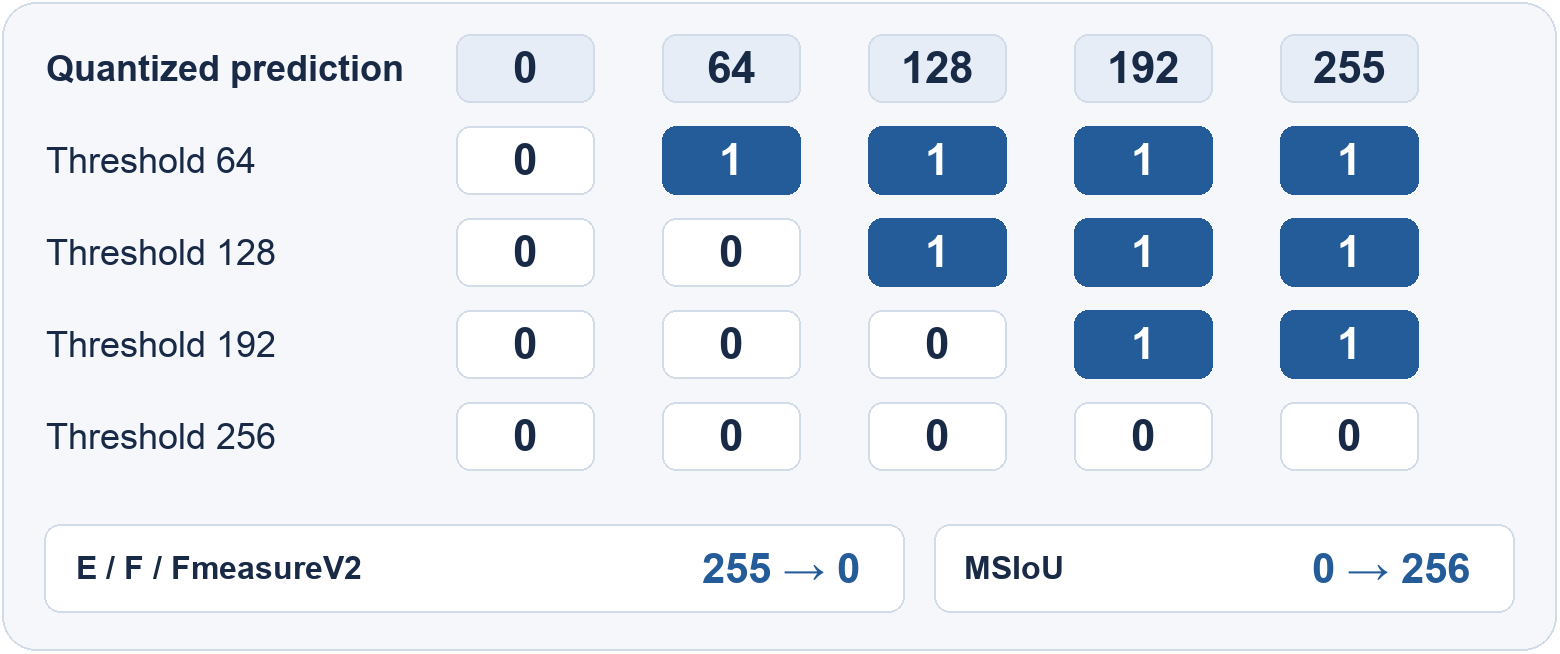
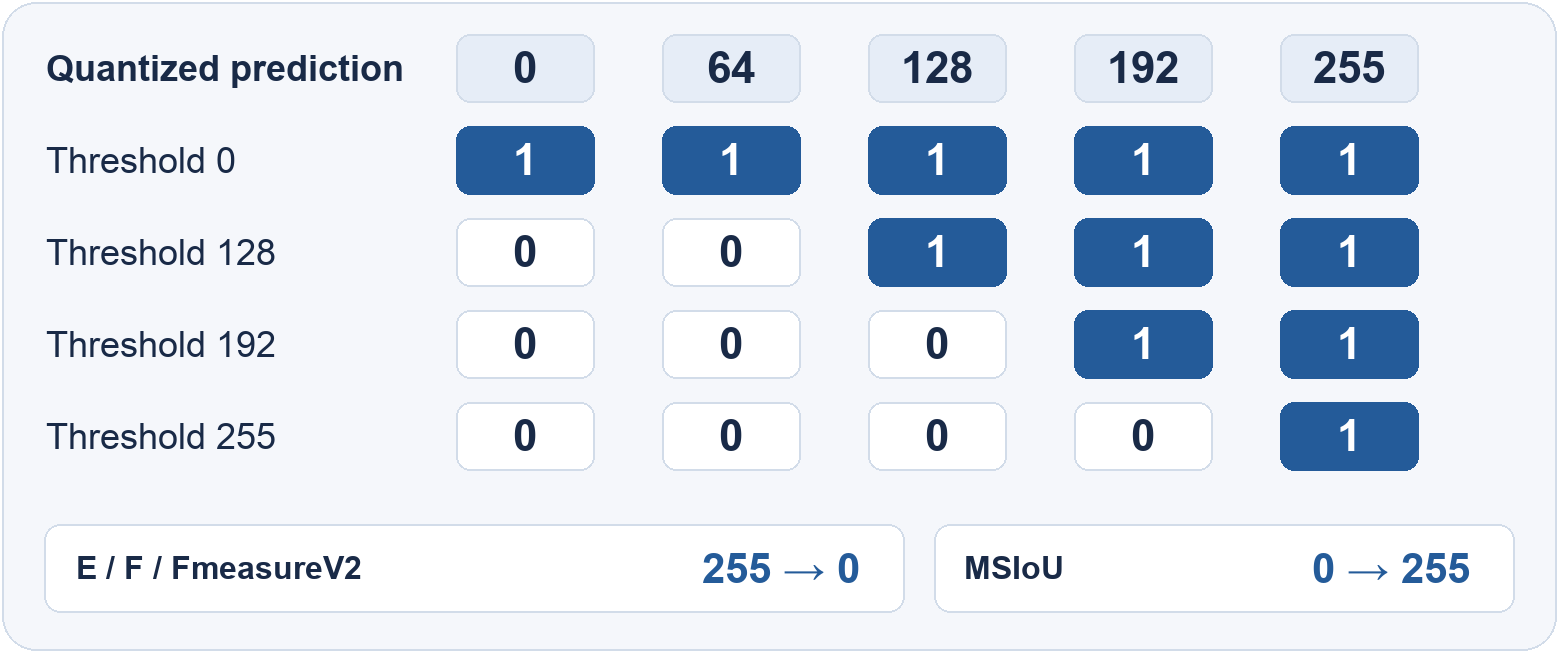
Prepare v1.7.1 with SI and MSIoU fixes

diff --git a/py_sod_metrics/size_invariance.py b/py_sod_metrics/size_invariance.py
@@ -1,9 +1,28 @@
 import numpy as np
+from scipy import ndimage
 from skimage import measure
 
 from .fmeasurev2 import FmeasureV2
 from .sod_metrics import MAE
 from .utils import TYPE, validate_and_normalize_input
+
+
+def _label_targets(mask: np.ndarray, area_threshold: float = 50) -> tuple:
+    labeled_tgts = measure.label(mask, connectivity=1, background=0, return_num=False)
+    areas = np.bincount(labeled_tgts.ravel())[1:]  # 0 is background
+    target_labels = np.flatnonzero(areas >= area_threshold)
+    if target_labels.size == 0 and areas.size > 0:
+        # Keep all targets tied for the largest area.
+        target_labels = np.flatnonzero(areas == areas.max())
+    return labeled_tgts, target_labels + 1
+
+
+def _get_target_boxes(mask: np.ndarray) -> list:
+    labeled_tgts, target_labels = _label_targets(mask)
+    if target_labels.size == 0:
+        return []
+    boxes = ndimage.find_objects(labeled_tgts)
+    return [boxes[label - 1] for label in target_labels]
 
 
 def parse_connected_components(mask: np.ndarray, area_threshold: float = 50) -> tuple:
@@ -19,33 +38,10 @@ def parse_connected_components(mask: np.ndarray, area_threshold: float = 50) -> 
     Returns:
         tuple: max_valid_tgt_idx, valid_labeled_mask
     """
-    labeled_tgts = measure.label(mask, connectivity=1, background=0, return_num=False)
-    tgt_props = measure.regionprops(labeled_tgts)
-
-    # find the valid targets based on the target size
-    tgts_with_max_size = []
-    max_valid_tgt_idx = 0  # 0 is background
-    valid_labeled_mask = np.zeros_like(mask, dtype=int)
-    for tgt_prop in tgt_props:
-        if not tgts_with_max_size or tgts_with_max_size[0].area == tgt_prop.area:
-            # if no targets or area matches, append the current target
-            tgts_with_max_size.append(tgt_prop)
-        elif tgts_with_max_size[0].area < tgt_prop.area:
-            # if current target has larger area, replace the list
-            tgts_with_max_size = [tgt_prop]
-
-        if tgt_prop.area >= area_threshold:  # valid indices start from 1
-            max_valid_tgt_idx += 1
-            valid_labeled_mask[labeled_tgts == tgt_prop.label] = max_valid_tgt_idx
-
-    if max_valid_tgt_idx == 0:  # no targets with area >= area_threshold
-        # here is different from the original implementation (https://github.com/Ferry-Li/SI_Metric/blob/6b87f78512f7c9c2600e2c2f563cc3763581e24f/generate_weight.py#L43-L52)
-        # the original implementation directly uses the first target in tgt_props and assigns the value 1 to the target's pixels
-        # while this implementation assigns a unique index to each target in tgts_with_max_size (targets with the same and largest area)
-        for tgt_prop in tgts_with_max_size:
-            max_valid_tgt_idx += 1
-            valid_labeled_mask[labeled_tgts == tgt_prop.label] = max_valid_tgt_idx
-    return max_valid_tgt_idx, valid_labeled_mask
+    labeled_tgts, target_labels = _label_targets(mask, area_threshold)
+    label_map = np.zeros(labeled_tgts.max(initial=0) + 1, dtype=int)
+    label_map[target_labels] = np.arange(1, target_labels.size + 1)
+    return target_labels.size, label_map[labeled_tgts]
 
 
 def get_bboxwise_tgt_masks(max_valid_tgt_idx: int, valid_labeled_mask: np.ndarray) -> list:
@@ -144,15 +140,17 @@ class SizeInvarianceFmeasureV2(FmeasureV2):
 
         pred, gt = validate_and_normalize_input(pred, gt, normalize=normalize)
 
-        max_valid_tgt_idx, valid_labeled_mask = parse_connected_components(mask=gt)
+        target_boxes = _get_target_boxes(gt)
 
-        if max_valid_tgt_idx == 0:  # no target or no background
-            self._update_metrics(pred=pred, gt=gt)
+        if target_boxes:
+            for target_box in target_boxes:
+                target_pred = np.zeros_like(pred, order="C")
+                target_gt = np.zeros_like(gt, order="C")
+                target_pred[target_box] = pred[target_box]
+                target_gt[target_box] = gt[target_box]
+                self._update_metrics(pred=target_pred, gt=target_gt)
         else:
-            for tgt_mask in get_bboxwise_tgt_masks(max_valid_tgt_idx, valid_labeled_mask):
-                _pred = pred * tgt_mask
-                _gt = gt & tgt_mask
-                self._update_metrics(pred=_pred, gt=_gt)
+            self._update_metrics(pred=pred, gt=gt)
 
         # average over all targets in each sample
         for handler_name, handler in self._metric_handlers.items():
@@ -220,33 +218,37 @@ class SizeInvarianceMAE(MAE):
             normalize (bool, optional): Whether to normalize the input data. Defaults to True.
         """
         pred, gt = validate_and_normalize_input(pred, gt, normalize=normalize)
-        max_valid_tgt_idx, valid_labeled_mask = parse_connected_components(mask=gt)
+        target_boxes = _get_target_boxes(gt)
 
-        if max_valid_tgt_idx == 0:  # no targets or no background
+        if not target_boxes:
             mae = np.abs(pred - gt).mean()
-        else:  # there are multiple targets
-            tgt_masks = get_bboxwise_tgt_masks(max_valid_tgt_idx, valid_labeled_mask)
-
-            # background component
-            bg_mask = ~np.logical_or.reduce(tgt_masks)  # outside all target bboxes
+        else:
+            bg_mask = np.ones(gt.shape, dtype=bool)
+            for target_box in target_boxes:
+                bg_mask[target_box] = False
             bg_area = np.count_nonzero(bg_mask)
-            if bg_area == 0:  # the target bboxes cover the whole image, so the background term vanishes
-                factor = 1 / max_valid_tgt_idx
-                mae = 0
-            else:
-                _pred = pred * bg_mask
-                _gt = gt & bg_mask
+
+            # Sum zero-padded errors in image order to preserve floating-point results.
+            errors = np.zeros_like(pred, order="C")
+            mae = 0
+            if bg_area:
                 bg_fg_area_ratio = bg_area / (gt.size - bg_area)
-                factor = 1 / (max_valid_tgt_idx + bg_fg_area_ratio)
-                mae = bg_fg_area_ratio * np.abs(_pred - _gt).sum() / bg_area * factor
+                factor = 1 / (len(target_boxes) + bg_fg_area_ratio)
+                np.subtract(pred, gt, out=errors, where=bg_mask)
+                np.abs(errors, out=errors)
+                mae = bg_fg_area_ratio * errors.sum() / bg_area * factor
+                errors.fill(0)
+            else:
+                factor = 1 / len(target_boxes)
 
-            # foreground components
-            for tgt_mask in tgt_masks:
-                tgt_area = np.count_nonzero(tgt_mask)
-
-                _pred = pred * tgt_mask
-                _gt = gt & tgt_mask
-                mae += np.abs(_pred - _gt).sum() / tgt_area * factor
+            # Match the scalar promotion of count_nonzero without allocating a target mask.
+            area_type = type(bg_area)
+            for target_box in target_boxes:
+                target_errors = errors[target_box]
+                np.subtract(pred[target_box], gt[target_box], out=target_errors)
+                np.abs(target_errors, out=target_errors)
+                mae += errors.sum() / area_type(target_errors.size) * factor
+                target_errors.fill(0)
         self.maes.append(mae)
 
     def get_results(self) -> dict:

diff --git a/examples/test_metrics.py b/examples/test_metrics.py
@@ -289,6 +289,7 @@ class CheckMetricTestCase(unittest.TestCase):
         # Fix versions: results of existing metrics that were changed by a bug fix, overriding the old values.
         for fix_version in [
             "v1_7_0",  # MSIoU: exact edge pixel counting (float16 -> float64), consistent across platforms
+            "v1_7_1",  # MSIoU: average over thresholds 0 through 255
         ]:
             if not all([k in cls.default_results for k in default_results[fix_version].keys()]):
                 raise ValueError(f"A fix version ({fix_version}) should only override existing keys.")
@@ -308,12 +309,32 @@ class CheckMetricTestCase(unittest.TestCase):
 
         self.assertEqual(self.curr_results["si_mae"], self.default_results["si_mae"])
 
+    def test_si_mae_float32(self):
+        pred = np.full((2, 3), 0.1, dtype=np.float32)
+        gt = np.ones(pred.shape, dtype=bool)
+        expected = np.abs(pred - gt).sum() / np.count_nonzero(gt)
+
+        metric = py_sod_metrics.SizeInvarianceMAE()
+        metric.step(pred, gt, normalize=False)
+        self.assertEqual(metric.get_results()["si_mae"], expected)
+
     def test_msiou(self):
         # self.assertEqual(self.curr_results["MSIOU"], self.default_results["MSIOU"])
         self.assertEqual(self.curr_results["adpmsiou"], self.default_results["adpmsiou"])
         self.assertEqual(self.curr_results["meanmsiou"], self.default_results["meanmsiou"])
         self.assertEqual(self.curr_results["maxmsiou"], self.default_results["maxmsiou"])
         self.assertEqual(self.curr_results["sample_bimsiou"], self.default_results["sample_bimsiou"])
+
+    def test_msiou_dynamic_thresholds(self):
+        pred = np.array([[0, 0, 1, 255], [0, 32, 32, 255], [64, 128, 254, 0], [128, 128, 255, 1]], dtype=np.uint8)
+        gt = pred >= 128
+        metric = py_sod_metrics.MSIoU(with_dynamic=True, with_adaptive=False, num_levels=3)
+
+        metric.step(pred.astype(np.float64) / 255, gt, normalize=False)
+
+        gt_edge = metric.get_edge(gt)
+        expected = [metric.binarizing(pred >= threshold, gt_edge) for threshold in range(256)]
+        np.testing.assert_array_equal(metric.get_results()["dynamic"], expected)
 
     def test_fm(self):
         self.assertEqual(self.curr_results["adpFm"], self.default_results["adpFm"])

diff --git a/py_sod_metrics/multiscale_iou.py b/py_sod_metrics/multiscale_iou.py
@@ -167,9 +167,9 @@ class MSIoU:
 
             results = []
             _pred = (pred * 255).astype(np.uint8)
-            unique_pred_val = np.unique(_pred) + 1  # only consider thresholds that change the binary mask
-            for threshold in np.linspace(0, 256, 257):
-                if threshold in [0, 256] or threshold in unique_pred_val:
+            changed_thresholds = set(np.unique(_pred).astype(int) + 1)
+            for threshold in range(256):
+                if threshold == 0 or threshold in changed_thresholds:
                     results.append(self.binarizing(_pred >= threshold, gt_edge, gt_shrunk_cache))
                 else:
                     results.append(results[-1])

diff --git a/deploy/metrics.rst b/deploy/metrics.rst
@@ -28,17 +28,16 @@ Dynamic curves first quantize the prediction to 8 bits, then apply integer thres
    Q(x) &= \left\lfloor 255P(x) \right\rfloor, \\
    B_t(x) &= \mathbf{1}\!\left[Q(x) \ge t\right].
 
-E-measure, legacy F-measure, and both FmeasureV2 evaluators return 256 points in
-descending threshold order from 255 to 0. :ref:`msiou` returns 257 points in
-ascending order from 0 to 256.
+These evaluators use the same 256 thresholds from 0 through 255. E-measure,
+legacy F-measure, and both FmeasureV2 evaluators return scores in descending
+threshold order. :ref:`msiou` returns scores in ascending threshold order.
 
 .. figure:: figures/threshold-sweep.png
    :width: 100%
-   :alt: Five quantized pixel values compared with thresholds 64, 128, 192, and 256.
+   :alt: Five quantized pixel values compared with thresholds 0, 128, 192, and 255.
 
-   A value equal to the threshold is foreground. At threshold 128, the last three
-   pixels are foreground. MSIoU includes the endpoint at 256, where every pixel
-   is background.
+   A value equal to the threshold is foreground. At threshold 0, all five
+   pixels are foreground. At threshold 255, only the final pixel is foreground.
 
 Basic Metrics
 -------------
@@ -306,6 +305,10 @@ cell along that axis.
    pixels. The bundled regression samples have updated adaptive, mean, max, and
    binary scores. Custom grid configurations use consecutive powers of two from 1 pixel.
 
+.. versionchanged:: 1.7.1
+   The dynamic curve uses 256 thresholds from 0 through 255 in ascending order.
+   To compare mean MSIoU with an older 257-point curve, average its first 256 scores.
+
 **Reference:**
 
 Ahmadzadeh et al., "Multiscale IOU: A Metric for Evaluation of Salient Object Detection with Fine Structures", ICIP 2021
@@ -363,6 +366,10 @@ all components tied for largest. A mask with no foreground is scored as one imag
 .. versionchanged:: 1.7.0
    The size-invariant evaluators support all-foreground masks and more than 63
    targets. SI-MAE averages the target terms when their boxes cover the full image.
+
+.. versionchanged:: 1.7.1
+   Target boxes are processed individually to reduce peak memory on images with
+   many targets.
 
 Size-Invariant FmeasureV2
 ~~~~~~~~~~~~~~~~~~~~~~~~~

diff --git a/CHANGELOG.md b/CHANGELOG.md
@@ -26,3 +26,8 @@
 - [FIX] `SizeInvarianceMAE` / `SizeInvarianceFmeasureV2`: Support ground truths that are entirely foreground, target bounding boxes covering the whole image, and more than 63 targets. The bitwise helpers `encode_bboxwise_tgts_bitwise` and `get_kth_bit` are replaced by `get_bboxwise_tgt_masks`.
 - [UPDATE] `MSIoU`: `num_levels` is no longer limited to 10. The k-th level uses the grid cell size 2^k, i.e., the cell sizes are [2^0, ..., 2^(num_levels - 1)]. The default `num_levels=10` still gives 1 to 512 as in the [original implementation](https://bitbucket.org/gsudmlab/multiscale_iou) (note that values in [2, 9] previously sampled cell sizes evenly from 1 to 512). `num_levels=1` falls back to the single-scale edge IoU. Cell sizes larger than the image no longer pad the image up to the cell size.
 - [FIX] `MSIoU`: Validate `num_levels` (an integer in [1, 63]) and replace the deprecated `np.trapz` with `np.trapezoid` (falling back to `np.trapz` on NumPy < 2.0).
+
+## [1.7.1]
+
+- [FIX] The `MSIoU` dynamic curve uses the same 256 thresholds as E-measure and F-measure. MSIoU returns scores in ascending order from `>= 0` through `>= 255`. To compare mean MSIoU with an older 257-point curve, average its first 256 scores.
+- [PERF] `SizeInvarianceMAE` and `SizeInvarianceFmeasureV2` process targets one bounding box at a time, reducing peak memory on images with many targets.

diff --git a/deploy/usage.rst b/deploy/usage.rst
@@ -365,7 +365,7 @@ Multi-Scale IoU
 ~~~~~~~~~~~~~~~
 
 Choose one or more threshold modes. The result contains a key for each enabled mode.
-``dynamic`` is the dataset-averaged 257-point curve over thresholds 0 to 256 in
+``dynamic`` is the dataset-averaged 256-point curve over thresholds 0 to 255 in
 ascending order. The evaluator compares the quantized 8-bit prediction with each
 threshold using ``>=``. ``adaptive`` and ``binary`` are dataset-averaged scalars.
 On the normalized prediction, adaptive mode uses ``pred >= min(2 * pred.mean(), 1)``
@@ -504,8 +504,8 @@ Best Practices
 
    - Legacy F-measure and E-measure return ``adp`` and ``curve`` under ``fm`` and
      ``em``, respectively. Legacy F-measure returns precision and recall under ``pr``.
-   - See :doc:`metrics` for threshold directions and aggregation. ``MSIoU`` uses
-     257 thresholds, while the F-measure and E-measure curves use 256.
+   - See :ref:`threshold-modes` for the order of the 256 thresholds and :doc:`metrics`
+     for the metric-specific aggregation rules.
 
 4. **Choosing Metrics**
 

diff --git a/deploy/api.rst b/deploy/api.rst
@@ -75,8 +75,8 @@ Multi-Scale IoU Module
 
    .. py:method:: get_results()
 
-      Return the mean over samples for each enabled mode. ``dynamic`` is a 257-point
-      NumPy array in ascending threshold order from 0 to 256. ``adaptive`` and
+      Return the mean over samples for each enabled mode. ``dynamic`` is a 256-point
+      NumPy array in ascending threshold order from 0 to 255. ``adaptive`` and
       ``binary`` are scalars.
 
    .. py:method:: get_edge(mask)
